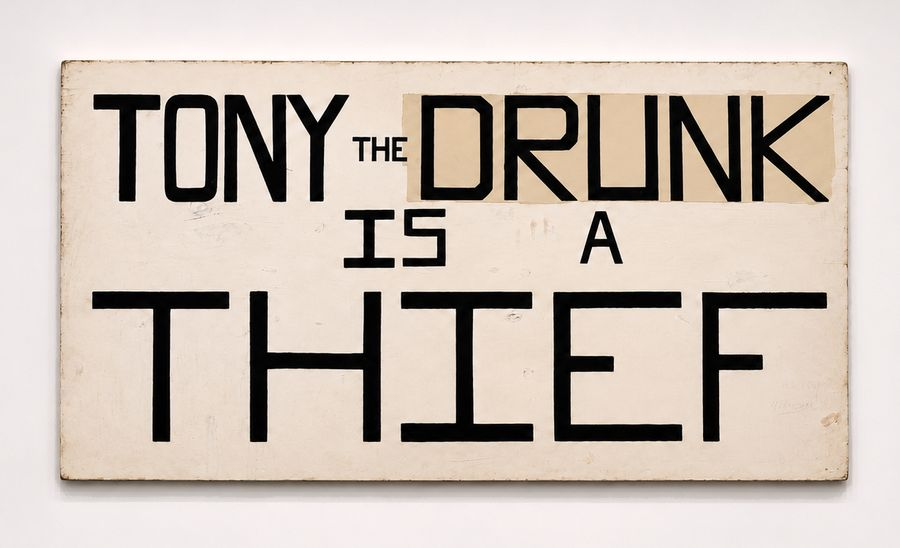
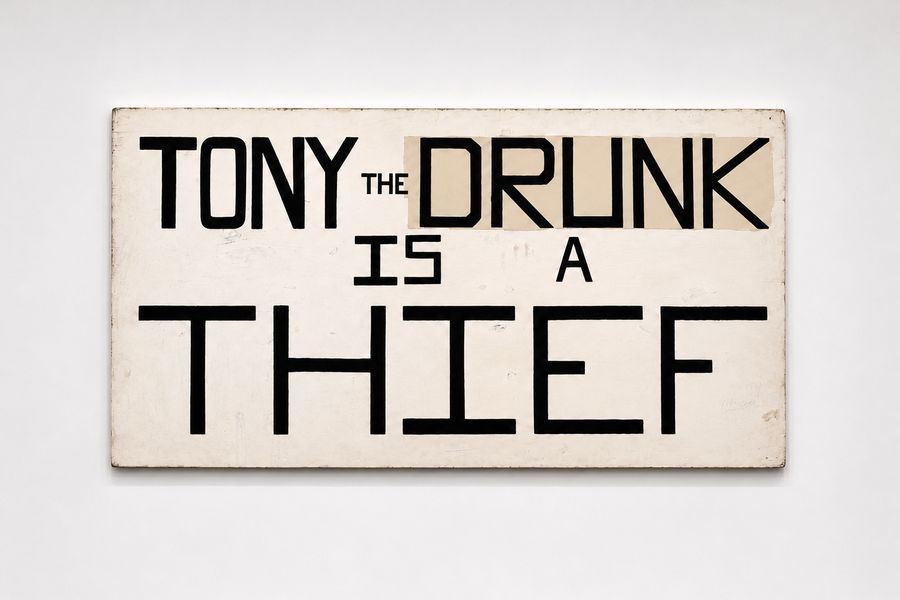
Tony: new lead image
Claude-Session: https://claude.ai/code/session_01JVoaYGW79WXXRpj5iE4Fxm

diff --git a/index.html b/index.html
@@ -9,5 +9,5 @@
 <link rel="apple-touch-icon" href="apple-touch-icon.png">
 </head><body>
 <header><a class="name" href="index.html">Abraham Adams</a><nav><a href="index.html" aria-current="page">projects</a><a href="books.html">books</a><a href="exhibitions.html">exhibitions</a><a href="cv.html">cv</a><a href="info.html">info</a></nav></header>
-<main><h1 class="index-title">Selected projects, 2014–26</h1><div class="grid"><a class="tile" href="projects/acheiropoieton.html"><span class="frame"><span class="fit" style="width:62.2%"><img src="img/acheiropoieton-01-t.jpg?v=4d309b16" width="671" height="900" alt="Acheiropoieton" loading="lazy"></span></span><span class="label">“Acheiropoieton,” 2026–</span></a><a class="tile" href="projects/variations-for-the-healing.html"><span class="frame"><span class="fit" style="width:58.8%"><img src="img/variations-for-the-healing-01-t.jpg?v=fa79aa3e" width="600" height="900" alt="Variations for the Healing" loading="lazy"></span></span><span class="label"><em>Variations for the Healing</em>, 2025–26</span></a><a class="tile" href="projects/a-conversation-about-trees.html"><span class="frame"><span class="fit" style="width:83.1%"><img src="img/a-conversation-about-trees-01-t.jpg?v=6b8445a5" width="900" height="675" alt="A Conversation About Trees" loading="lazy"></span></span><span class="label"><em>A Conversation About Trees</em>, 2025</span></a><a class="tile" href="projects/more-heavens.html"><span class="frame"><span class="fit" style="width:88.2%"><img src="img/more-heavens-01-t.jpg?v=10669583" width="900" height="600" alt="More Heavens" loading="lazy"></span></span><span class="label">“More Heavens,” 2025–</span></a><a class="tile" href="projects/postcard.html"><span class="frame"><span class="fit" style="width:62.4%"><img src="img/postcard-01-t.jpg?v=00e64c58" width="675" height="900" alt="Postcard" loading="lazy"></span></span><span class="label">“Postcard,” 2025</span></a><a class="tile" href="projects/contact.html"><span class="frame"><span class="fit" style="width:72.0%"><img src="img/contact-01-t.jpg?v=c0aa1a8e" width="900" height="900" alt="Contact" loading="lazy"></span></span><span class="label">“Contact,” 2024–</span></a><a class="tile" href="projects/after.html"><span class="frame"><span class="fit" style="width:83.1%"><img src="img/after-01-t.jpg?v=29d5f685" width="900" height="675" alt="After" loading="lazy"></span></span><span class="label">“After,” 2021–23</span></a><a class="tile" href="projects/ambulance-chasers.html"><span class="frame"><span class="fit" style="width:80.5%"><img src="img/ambulance-chasers-01-t.jpg?v=01d89bef" width="900" height="720" alt="Ambulance Chasers" loading="lazy"></span></span><span class="label"><em>Ambulance Chasers</em>, MIT Press, 2022</span></a><a class="tile" href="projects/tony-the-drunk-is-a-thief.html"><span class="frame"><span class="fit" style="width:92.3%"><img src="img/tony-the-drunk-is-a-thief-01-t.jpg?v=b5f1e943" width="900" height="548" alt="Tony the Drunk Is a Thief" loading="lazy"></span></span><span class="label"><em>Tony the Drunk Is a Thief</em>, 2018</span></a><a class="tile" href="projects/nothing-in-moma.html"><span class="frame"><span class="fit" style="width:88.1%"><img src="img/nothing-in-moma-01-t.jpg?v=5ce2273e" width="900" height="601" alt="Nothing in MoMA" loading="lazy"></span></span><span class="label"><em>Nothing in MoMA</em>, Punctum Books, 2018</span></a><a class="tile" href="projects/before.html"><span class="frame"><span class="fit" style="width:80.5%"><img src="img/before-01-t.jpg?v=98168e20" width="900" height="720" alt="Before" loading="lazy"></span></span><span class="label">“Before,” 2016–</span></a><a class="tile" href="projects/my-dark-blue-rain-drenched-flower.html"><span class="frame"><span class="fit" style="width:85.6%"><img src="img/my-dark-blue-rain-drenched-flower-01-t.jpg?v=5946757f" width="900" height="637" alt="My Dark-Blue Rain-Drenched Flower" loading="lazy"></span></span><span class="label"><em>My Dark-Blue Rain-Drenched Flower</em>, 2015</span></a><a class="tile" href="projects/installation-for-a-photograph.html"><span class="frame"><span class="fit" style="width:62.3%"><img src="img/installation-for-a-photograph-01-t.jpg?v=0d1e7c6d" width="674" height="900" alt="Installation for a Photograph" loading="lazy"></span></span><span class="label"><em>Installation for a Photograph</em>, 2014–15</span></a></div></main>
+<main><h1 class="index-title">Selected projects, 2014–26</h1><div class="grid"><a class="tile" href="projects/acheiropoieton.html"><span class="frame"><span class="fit" style="width:62.2%"><img src="img/acheiropoieton-01-t.jpg?v=4d309b16" width="671" height="900" alt="Acheiropoieton" loading="lazy"></span></span><span class="label">“Acheiropoieton,” 2026–</span></a><a class="tile" href="projects/variations-for-the-healing.html"><span class="frame"><span class="fit" style="width:58.8%"><img src="img/variations-for-the-healing-01-t.jpg?v=fa79aa3e" width="600" height="900" alt="Variations for the Healing" loading="lazy"></span></span><span class="label"><em>Variations for the Healing</em>, 2025–26</span></a><a class="tile" href="projects/a-conversation-about-trees.html"><span class="frame"><span class="fit" style="width:83.1%"><img src="img/a-conversation-about-trees-01-t.jpg?v=6b8445a5" width="900" height="675" alt="A Conversation About Trees" loading="lazy"></span></span><span class="label"><em>A Conversation About Trees</em>, 2025</span></a><a class="tile" href="projects/more-heavens.html"><span class="frame"><span class="fit" style="width:88.2%"><img src="img/more-heavens-01-t.jpg?v=10669583" width="900" height="600" alt="More Heavens" loading="lazy"></span></span><span class="label">“More Heavens,” 2025–</span></a><a class="tile" href="projects/postcard.html"><span class="frame"><span class="fit" style="width:62.4%"><img src="img/postcard-01-t.jpg?v=00e64c58" width="675" height="900" alt="Postcard" loading="lazy"></span></span><span class="label">“Postcard,” 2025</span></a><a class="tile" href="projects/contact.html"><span class="frame"><span class="fit" style="width:72.0%"><img src="img/contact-01-t.jpg?v=c0aa1a8e" width="900" height="900" alt="Contact" loading="lazy"></span></span><span class="label">“Contact,” 2024–</span></a><a class="tile" href="projects/after.html"><span class="frame"><span class="fit" style="width:83.1%"><img src="img/after-01-t.jpg?v=29d5f685" width="900" height="675" alt="After" loading="lazy"></span></span><span class="label">“After,” 2021–23</span></a><a class="tile" href="projects/ambulance-chasers.html"><span class="frame"><span class="fit" style="width:80.5%"><img src="img/ambulance-chasers-01-t.jpg?v=01d89bef" width="900" height="720" alt="Ambulance Chasers" loading="lazy"></span></span><span class="label"><em>Ambulance Chasers</em>, MIT Press, 2022</span></a><a class="tile" href="projects/tony-the-drunk-is-a-thief.html"><span class="frame"><span class="fit" style="width:88.2%"><img src="img/tony-the-drunk-is-a-thief-01-t.jpg?v=eb5daf6d" width="900" height="600" alt="Tony the Drunk Is a Thief" loading="lazy"></span></span><span class="label"><em>Tony the Drunk Is a Thief</em>, 2018</span></a><a class="tile" href="projects/nothing-in-moma.html"><span class="frame"><span class="fit" style="width:88.1%"><img src="img/nothing-in-moma-01-t.jpg?v=5ce2273e" width="900" height="601" alt="Nothing in MoMA" loading="lazy"></span></span><span class="label"><em>Nothing in MoMA</em>, Punctum Books, 2018</span></a><a class="tile" href="projects/before.html"><span class="frame"><span class="fit" style="width:80.5%"><img src="img/before-01-t.jpg?v=98168e20" width="900" height="720" alt="Before" loading="lazy"></span></span><span class="label">“Before,” 2016–</span></a><a class="tile" href="projects/my-dark-blue-rain-drenched-flower.html"><span class="frame"><span class="fit" style="width:85.6%"><img src="img/my-dark-blue-rain-drenched-flower-01-t.jpg?v=5946757f" width="900" height="637" alt="My Dark-Blue Rain-Drenched Flower" loading="lazy"></span></span><span class="label"><em>My Dark-Blue Rain-Drenched Flower</em>, 2015</span></a><a class="tile" href="projects/installation-for-a-photograph.html"><span class="frame"><span class="fit" style="width:62.3%"><img src="img/installation-for-a-photograph-01-t.jpg?v=0d1e7c6d" width="674" height="900" alt="Installation for a Photograph" loading="lazy"></span></span><span class="label"><em>Installation for a Photograph</em>, 2014–15</span></a></div></main>
 </body></html>

diff --git a/projects/tony-the-drunk-is-a-thief.html b/projects/tony-the-drunk-is-a-thief.html
@@ -9,5 +9,5 @@
 <link rel="apple-touch-icon" href="../apple-touch-icon.png">
 </head><body>
 <header><a class="name" href="../index.html">Abraham Adams</a><nav><a href="../index.html" aria-current="page">projects</a><a href="../books.html">books</a><a href="../exhibitions.html">exhibitions</a><a href="../cv.html">cv</a><a href="../info.html">info</a></nav></header>
-<main><article class="work"><h1><em>Tony the Drunk Is a Thief</em>, 2018</h1><p class="desc"><em>Tony the Drunk Is a Thief</em> is a replica of a roadside sign from rural Massachusetts.</p><figure><img src="../img/tony-the-drunk-is-a-thief-01.jpg?v=7b8a8705" width="1239" height="755" alt="Tony the Drunk Is a Thief, 2018" loading="eager"><figcaption>Tony the Drunk Is a Thief, 2018. Acrylic paint on wood, 3 × 6 ft.</figcaption></figure><figure><img src="../img/tony-the-drunk-is-a-thief-02.jpg?v=7ca67168" width="1067" height="1600" alt="Detail" loading="lazy"><figcaption>Detail.</figcaption></figure></article></main>
+<main><article class="work"><h1><em>Tony the Drunk Is a Thief</em>, 2018</h1><p class="desc"><em>Tony the Drunk Is a Thief</em> is a replica of a roadside sign from rural Massachusetts.</p><figure><img src="../img/tony-the-drunk-is-a-thief-01.jpg?v=cb1569fb" width="1448" height="965" alt="Tony the Drunk Is a Thief, 2018" loading="eager"><figcaption>Tony the Drunk Is a Thief, 2018. Acrylic paint on wood, 3 × 6 ft.</figcaption></figure><figure><img src="../img/tony-the-drunk-is-a-thief-02.jpg?v=7ca67168" width="1067" height="1600" alt="Detail" loading="lazy"><figcaption>Detail.</figcaption></figure></article></main>
 </body></html>
